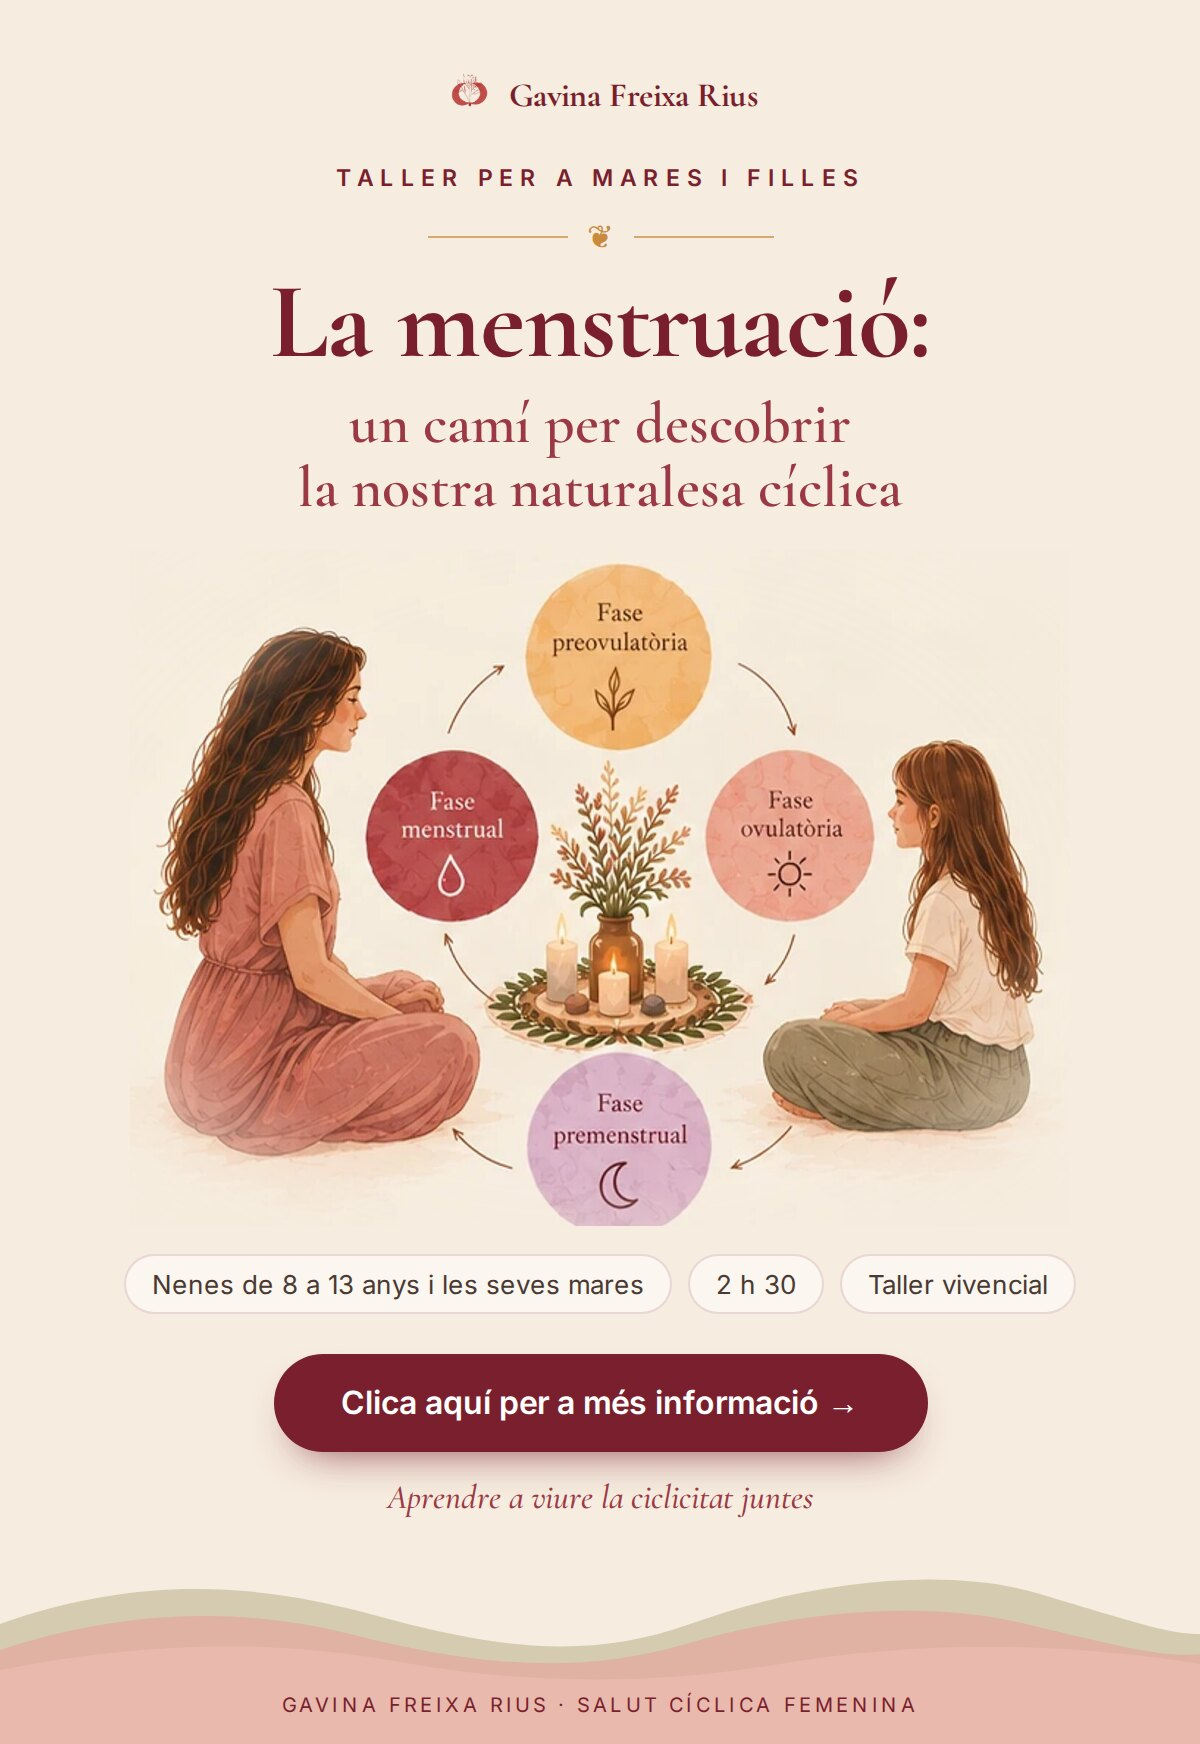
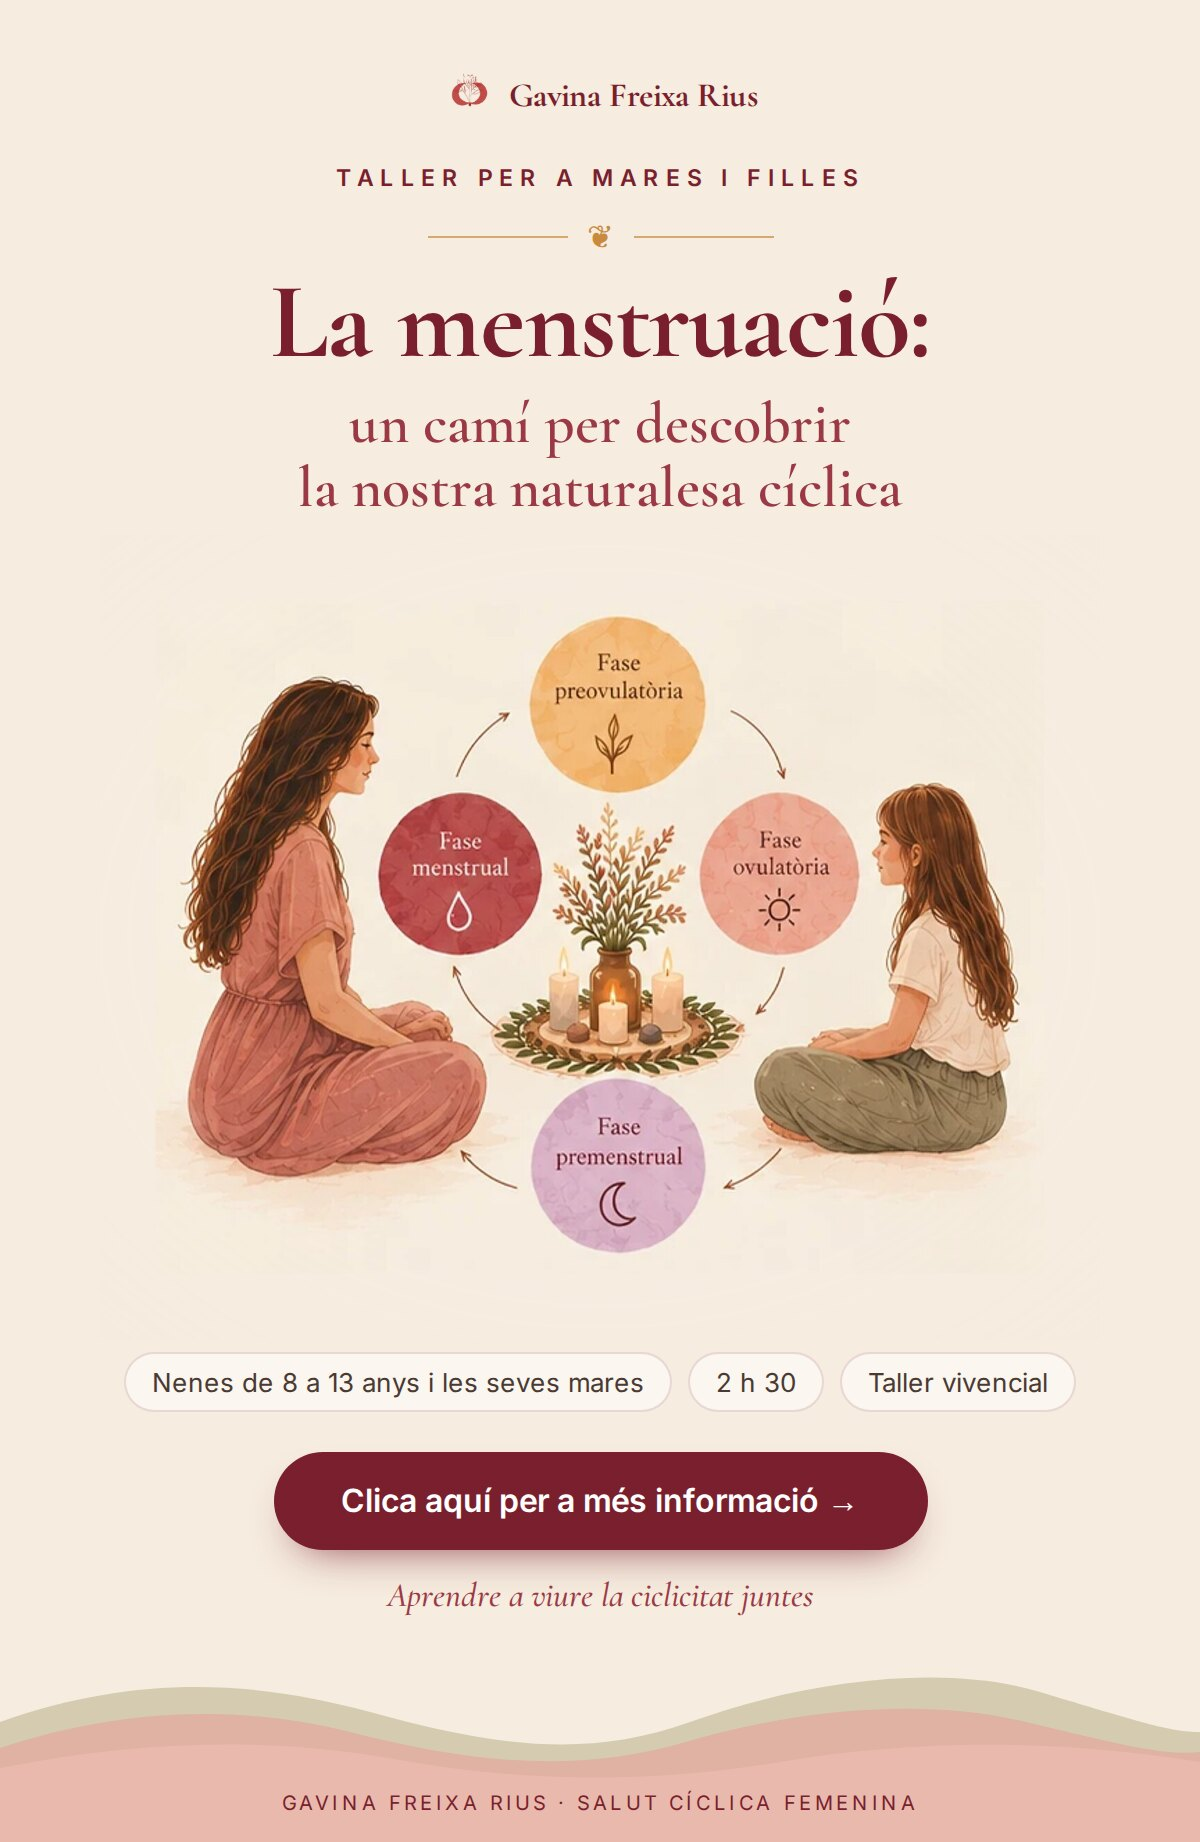
Taller: il·lustració sense tallar la fase premenstrual (pàgina i imatge del correu)
Claude-Session: https://claude.ai/code/session_01QA853HwZdPySM3nLzEz9mE

diff --git a/public/taller-mares-i-filles/index.html b/public/taller-mares-i-filles/index.html
@@ -219,7 +219,7 @@
         </div>
 
         <div class="hero-art">
-          <img src="/taller-mares-i-filles/il-lustracio.jpg" width="1280" height="920" alt="Una mare i una filla assegudes a terra, una davant de l'altra, envoltades de les quatre fases del cicle menstrual: preovulatòria, ovulatòria, premenstrual i menstrual" />
+          <img src="/taller-mares-i-filles/il-lustracio.jpg" width="1440" height="1160" alt="Una mare i una filla assegudes a terra, una davant de l'altra, envoltades de les quatre fases del cicle menstrual: preovulatòria, ovulatòria, premenstrual i menstrual" />
         </div>
       </div>
     </section>
